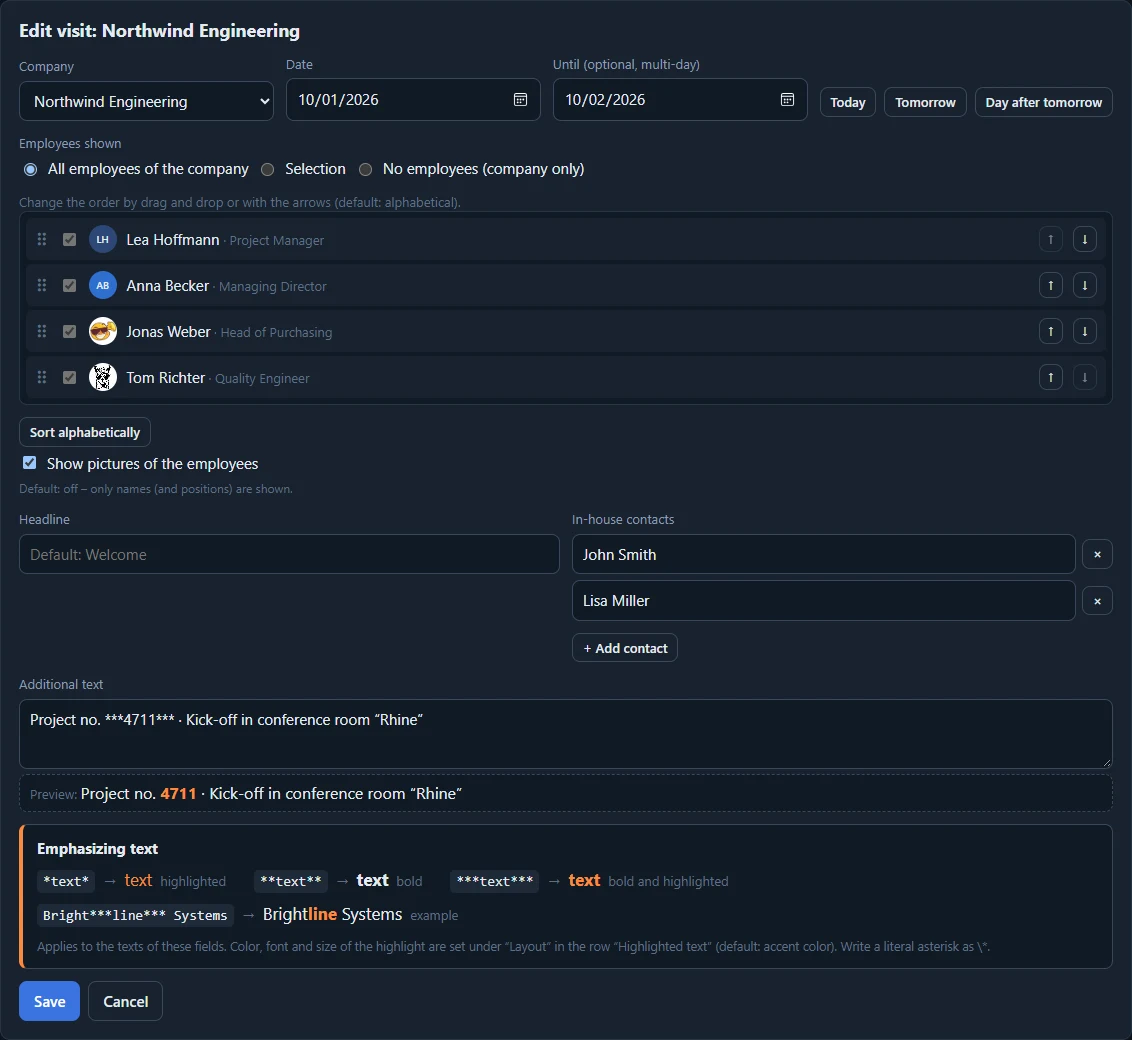
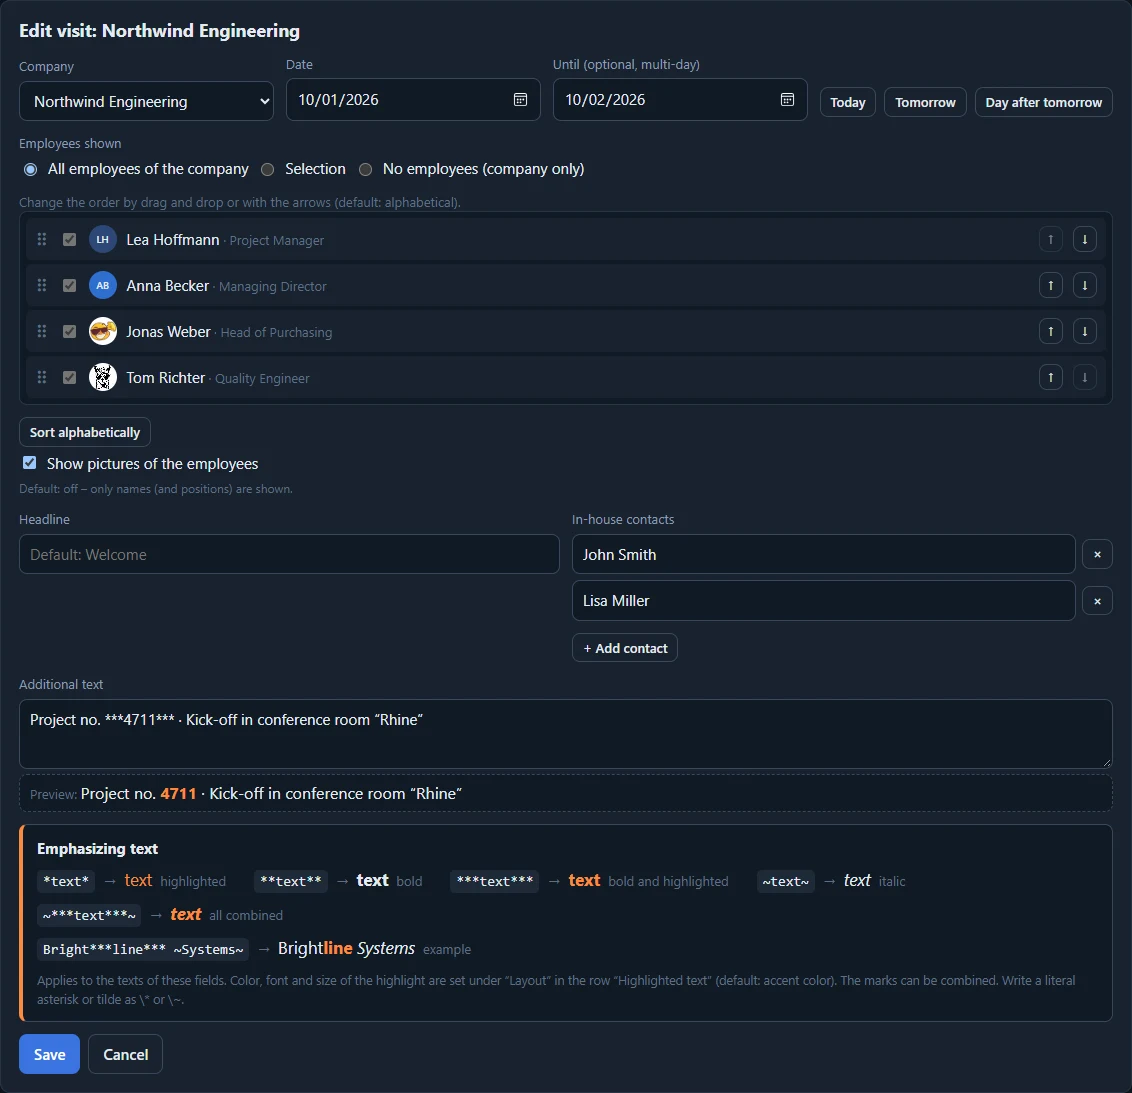
docs: mention italic text in the README and refresh the visit form screenshot

diff --git a/README.md b/README.md
@@ -28,8 +28,8 @@ from Claude and other AI assistants (*"Northwind is visiting tomorrow with Anna 
 - **Employee pictures** – own photo, a picture from the picture pool or initials in a color of your choice – switched
   on per visit (default: names only).
 - **Weather** (Open-Meteo, no API key) and **guest Wi-Fi** with QR code.
-- **Emphasized text** – parts of the free texts can be highlighted in the accent color and/or bold, e.g.
-  `Bright***line*** Systems`.
+- **Emphasized text** – parts of the free texts can be highlighted in the accent color, bold and/or italic, e.g.
+  `Bright***line*** ~Systems~`.
 - **Layouts** – background image, own logo and its size, colors, glass effect, spacing, and font, size and color of
   every text element. Twelve open-source fonts are shipped (no external font services). Several layouts, e.g.
   seasonal.
